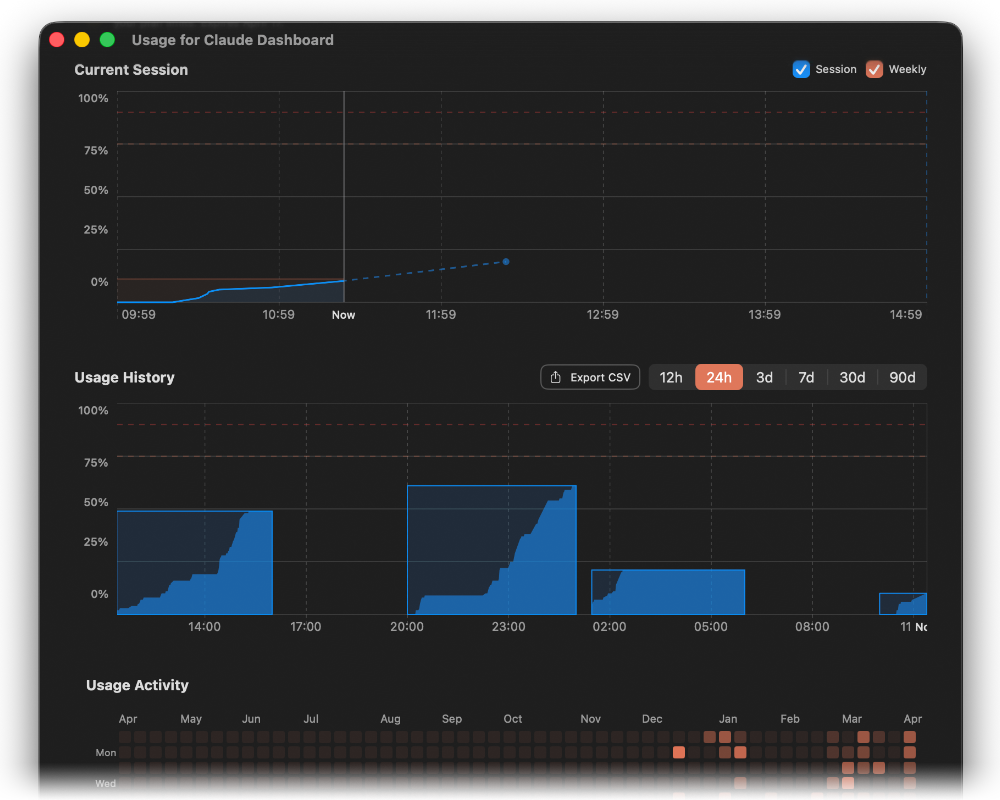
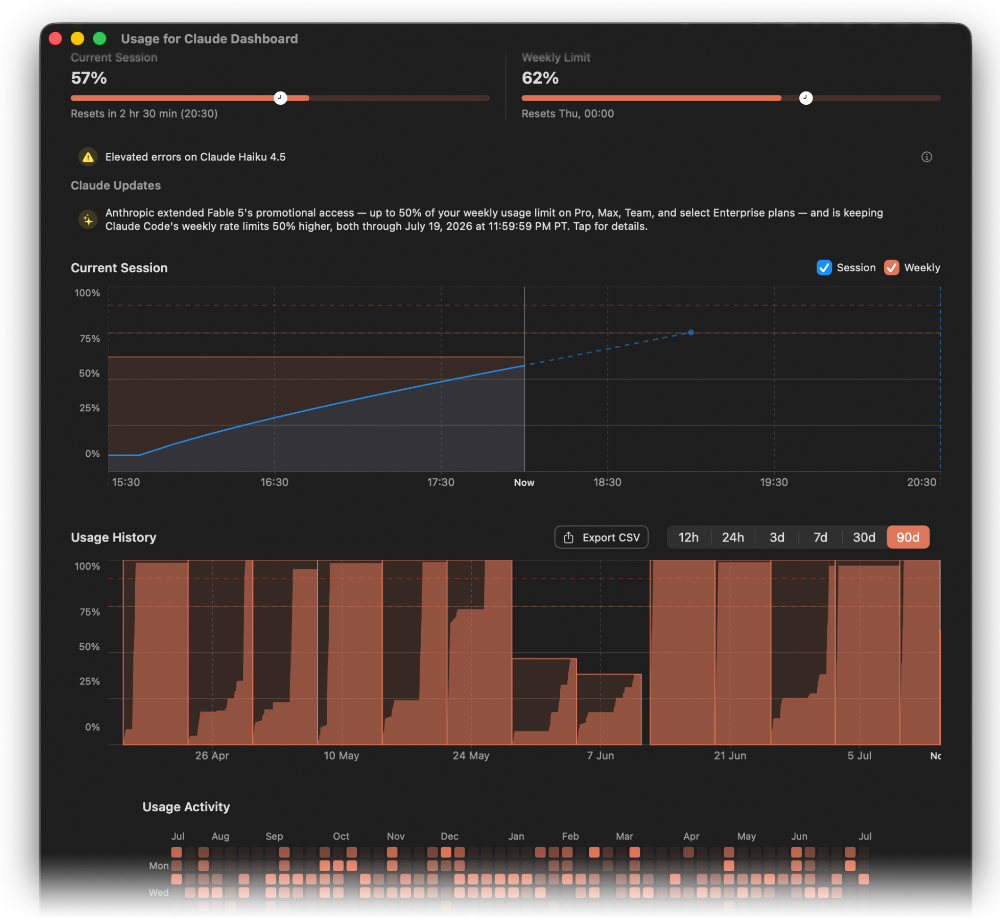
ClaudeUsage: unframe the history shot now that it ships window chrome
historyView.png is now a taller window screenshot that carries its own
title bar, rounded corners, and shadow on a transparent background. Sitting
it in the bordered .card-figure drew a frame around a frame, so it moves to
.card-figure.plain and drops the drop-shadow filter, which would otherwise
stack a second shadow on the one already baked into the PNG.

diff --git a/ClaudeUsage/index.html b/ClaudeUsage/index.html
@@ -124,7 +124,7 @@
                     </div>
                     <h3>Track your usage over time</h3>
                     <p>The History view charts your Claude usage with interactive graphs and a GitHub-style activity grid spanning the past year. Filter by range, spot trends, and export to CSV.</p>
-                    <div class="card-figure">
+                    <div class="card-figure plain history-fig">
                         <img src="Assets/historyView.png" alt="Usage history dashboard with charts and activity grid">
                     </div>
                 </article>

diff --git a/ClaudeUsage/styles.css b/ClaudeUsage/styles.css
@@ -458,6 +458,9 @@ body[data-stars="subtle"] .star:nth-child(2n) { display: none; }
 .b-widgets  { grid-column: span 4; }
 
 .b-history .card-figure { margin-top: auto; }
+/* the dashboard shot is a window with its own chrome and a baked-in shadow,
+   so it gets no frame (card-in-a-card) and no second drop-shadow */
+.history-fig img { filter: none; }
 .b-notify .card-figure { margin-top: auto; }
 .b-notify > p { margin-bottom: 20px; }
 .b-share { text-align: left; }
